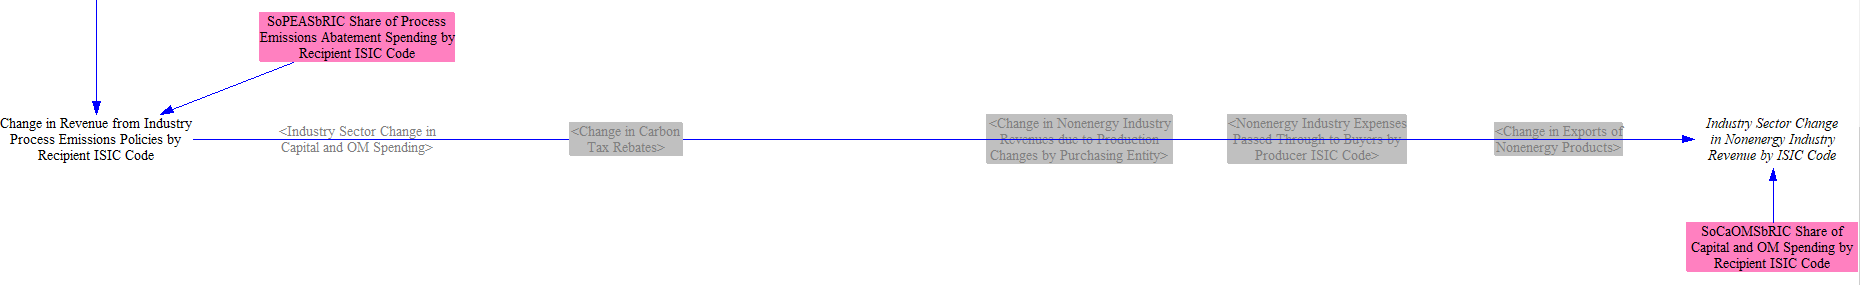
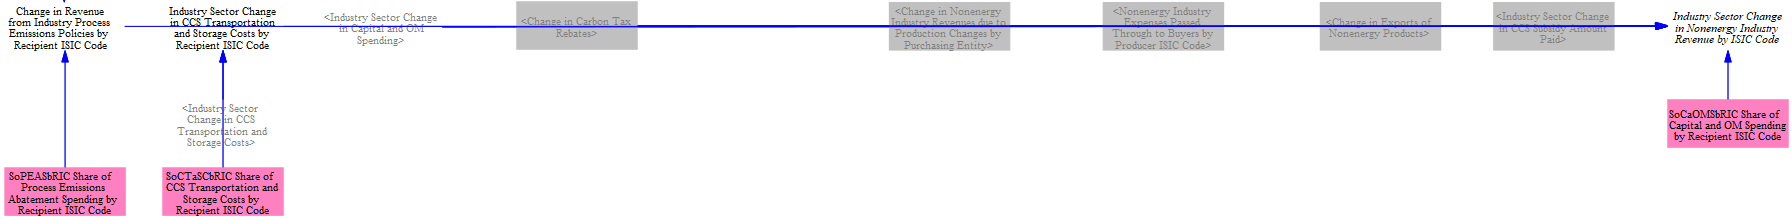
Documentation updates for 4.0.4 release (industry-cash)

diff --git a/docs/industry-ag-cash.md b/docs/industry-ag-cash.md
@@ -33,6 +33,10 @@ Next, we multiply the number of tons abated at each marginal cost level by the c
 
 ![total cash flow change for Industry due to process emissions policies](/img/industry-ag-cash-ProcEmisCostTotal.png)
 
+In the process emissions calculations on the [Industry and Agriculture - Main ](industry-ag-main) sheet, we include a boolean policy to read additional process emissions from input data. We treat these additional emissions similarly to those reduced by other policies, multiplying the number of tons added at each marginal cost level by the cost definition for that tier. These additioanl emissions are fed into the Cost to Industry from Process Emissions Policies. 
+
+![cash flow change for Industry due to added process emissions](/img/industry-ag-cash-ProcEmisAdded.png)
+
 ## Cash Flow Impacts of Implementing Efficiency Policies
 
 We begin this calculation by determining the additional, incremental change in fuel use (that is, between the policy and BAU cases) in the current year of the model run relative to the prior year.  This incremental difference indicates how much additional equipment was needed in the current year, since equipment that enabled fuel savings in past years is still in operation and still provides fuel savings in the current year.  For fuel shifting policies, we use increases in industrial fuel use rather than the change in fuel use, since the costs of fuel shifting are based on the purchase of equipment to handle new fuel types.  The following structure shows this calculation:
@@ -77,9 +81,9 @@ To calculate the change in CCS capital equipment costs, we take the difference i
 
 ![change in cash flow due to CCS equipment](/img/industry-ag-cash-CCSEquipmentCosts.png)
 
-The change in O&M costs is handled similarly, and we find the difference in CCS O&M costs between the BAU and policy cases.
+The change in O&M and transportation and storage costs, as well as the change in CCS subsidies are all handled similarly, as we find the difference in amounts between the BAU and policy cases. 
 
-![change in cash flow due to CCS O&M](/img/industry-ag-cash-CCSOMCosts.png)
+![change in cash flow due to CCS O&M](/img/industry-ag-cash-CCSOtherCosts.png)
 
 Finally, we take the difference in CO<sub>2</sub> sequestered in the BAU and policy cases, convert from grams of pollutant to grams of CO<sub>2</sub>e (which does not change the number, because CO<sub>2</sub> is the only pollutant that can be sequestered, and it has a GWP of 1), and convert to metric tons of CO<sub>2</sub>e.  This yields the change in CO<sub>2</sub> sequestered by Industry, and we apply the carbon tax rate to find the total tax rebate from CO<sub>2</sub> sequestration.  The relevant structure is shown in the following screenshot:
 
@@ -145,7 +149,7 @@ As covered above, we separately track industry spending on energy and nonenergy 
 
 In the screenshot above, we also separate out the 'Industry Sector Change in Energy Expenditures for Natural Gas Production' for use on the [Fuels](fuels) sheet. 
 
-Next, we want to sum up the changes in nonenergy expenditures by entity.  We do this in several steps, grouping changes in expenses together by category: 'Change in Expenditures on Nonenergy Imports and Exports by Entity,' 'Change in Nonenergy Expenditures by Entity due to Expense Passthrough,' 'Change in Carbon Tax Rebates,' 'Change in Nonenergy Expenditures by Entity due to Production Changes,' and 'Industry Sector Change in Miscellaneous Expenditures by Entity,' the last of which contains a variety of capital and O&M expenses calculated in the sections above.  Where necessary, the structure below maps expenditures that are subscripted by industry category to the relevant cash flow entities.  For example, the 'Change in Carbon Tax Rebates' is assigned to the 'government' entity, and expenditures by all nonenergy industry categories are summed together into the 'nonenergy industries' entity.
+Next, we want to sum up the changes in nonenergy expenditures by entity.  We do this in several steps, grouping changes in expenses together by category: 'Change in Expenditures on Nonenergy Imports and Exports by Entity,' 'Change in Nonenergy Expenditures by Entity due to Expense Passthrough,' 'Industry Sector Change in CCS Subsidy Amount Paid,' 'Change in Carbon Tax Rebates,' 'Change in Nonenergy Expenditures by Entity due to Production Changes,' and 'Industry Sector Change in Miscellaneous Expenditures by Entity,' the last of which contains a variety of capital and O&M expenses calculated in the sections above.  Where necessary, the structure below maps expenditures that are subscripted by industry category to the relevant cash flow entities.  For example, the 'Change in Carbon Tax Rebates' is assigned to the 'government' entity, and expenditures by all nonenergy industry categories are summed together into the 'nonenergy industries' entity.
 
 ![carbon tax per unit industrial output](/img/industry-ag-cash-CngNonenergyExp.png)
 
@@ -159,9 +163,9 @@ As in the section describing allocating changes in expenditures above, we group 
 
 ![carbon tax per unit industrial output](/img/industry-ag-cash-CngNonenergyRevenue.png)
 
-Lastly, we also need the change in nonenergy industry sector revenue by ISIC code to be used in the [Input-Output Model](io-model).  This requires two input data variables that specify the share of process emissions abatement spending by recipient ISIC code and the share of capital and O&M spending by recipient ISIC code.  The corresponding ISIC code for each nonenergy industry category receives revenue from (#1) any carbon tax rebates to the matching industry, (#2a) the matching industry's revenues from selling nonenergy products to any/all cash flow entities, (#2b) any expenses the matching industry passes through in the cost of nonenergy products to buyers, (#3) any revenue from that industry's sales of capital equipment or O&M to other industries, (#4) any revenue from industries' implementation of process emissions policies, and (#5) revenue from each industry's change in exports.
+Lastly, we also need the change in nonenergy industry sector revenue by ISIC code to be used in the [Input-Output Model](io-model).  This requires three input data variables that specify 1) the share of process emissions abatement spending by recipient ISIC code; 2) the share of CCS transportation and storage costs by recipient ISIC code; and 3) the share of capital and O&M spending by recipient ISIC code.  The corresponding ISIC code for each nonenergy industry category receives revenue from (#1) any carbon tax rebates to the matching industry, (#2a) the matching industry's revenues from selling nonenergy products to any/all cash flow entities, (#2b) any expenses the matching industry passes through in the cost of nonenergy products to buyers, (#3) any revenue from that industry's sales of capital equipment or O&M to other industries, (#4) any revenue from industries' implementation of process emissions policies, (#5) revenue from each industry's change in exports, and (#6) any revenue from each industry's transportation and storage costs.
 
 ![carbon tax per unit industrial output](/img/industry-ag-cash-CngNonenergyRevenueISIC.png)
 
 ---
-*This page was last updated in version 3.5.0.*
+*This page was last updated in version 4.0.4.*
